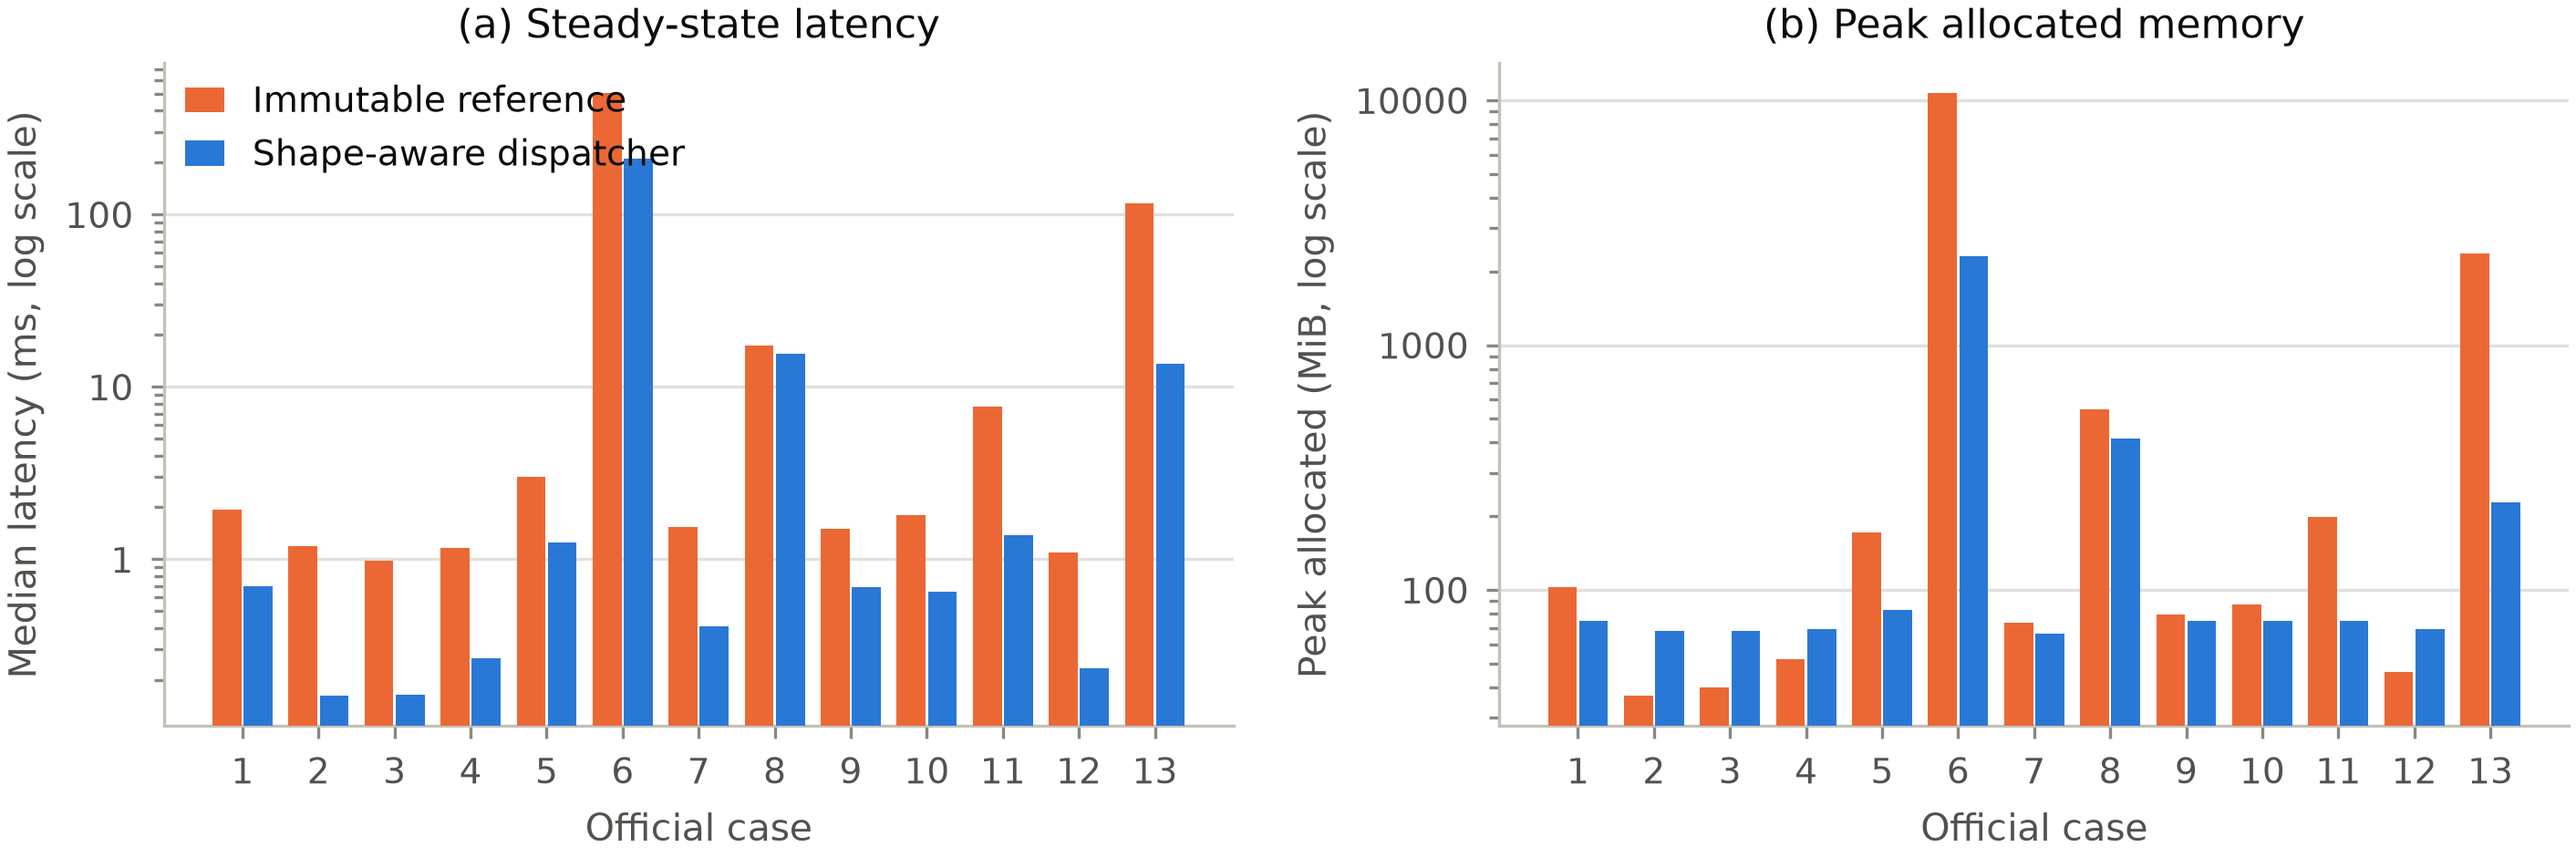
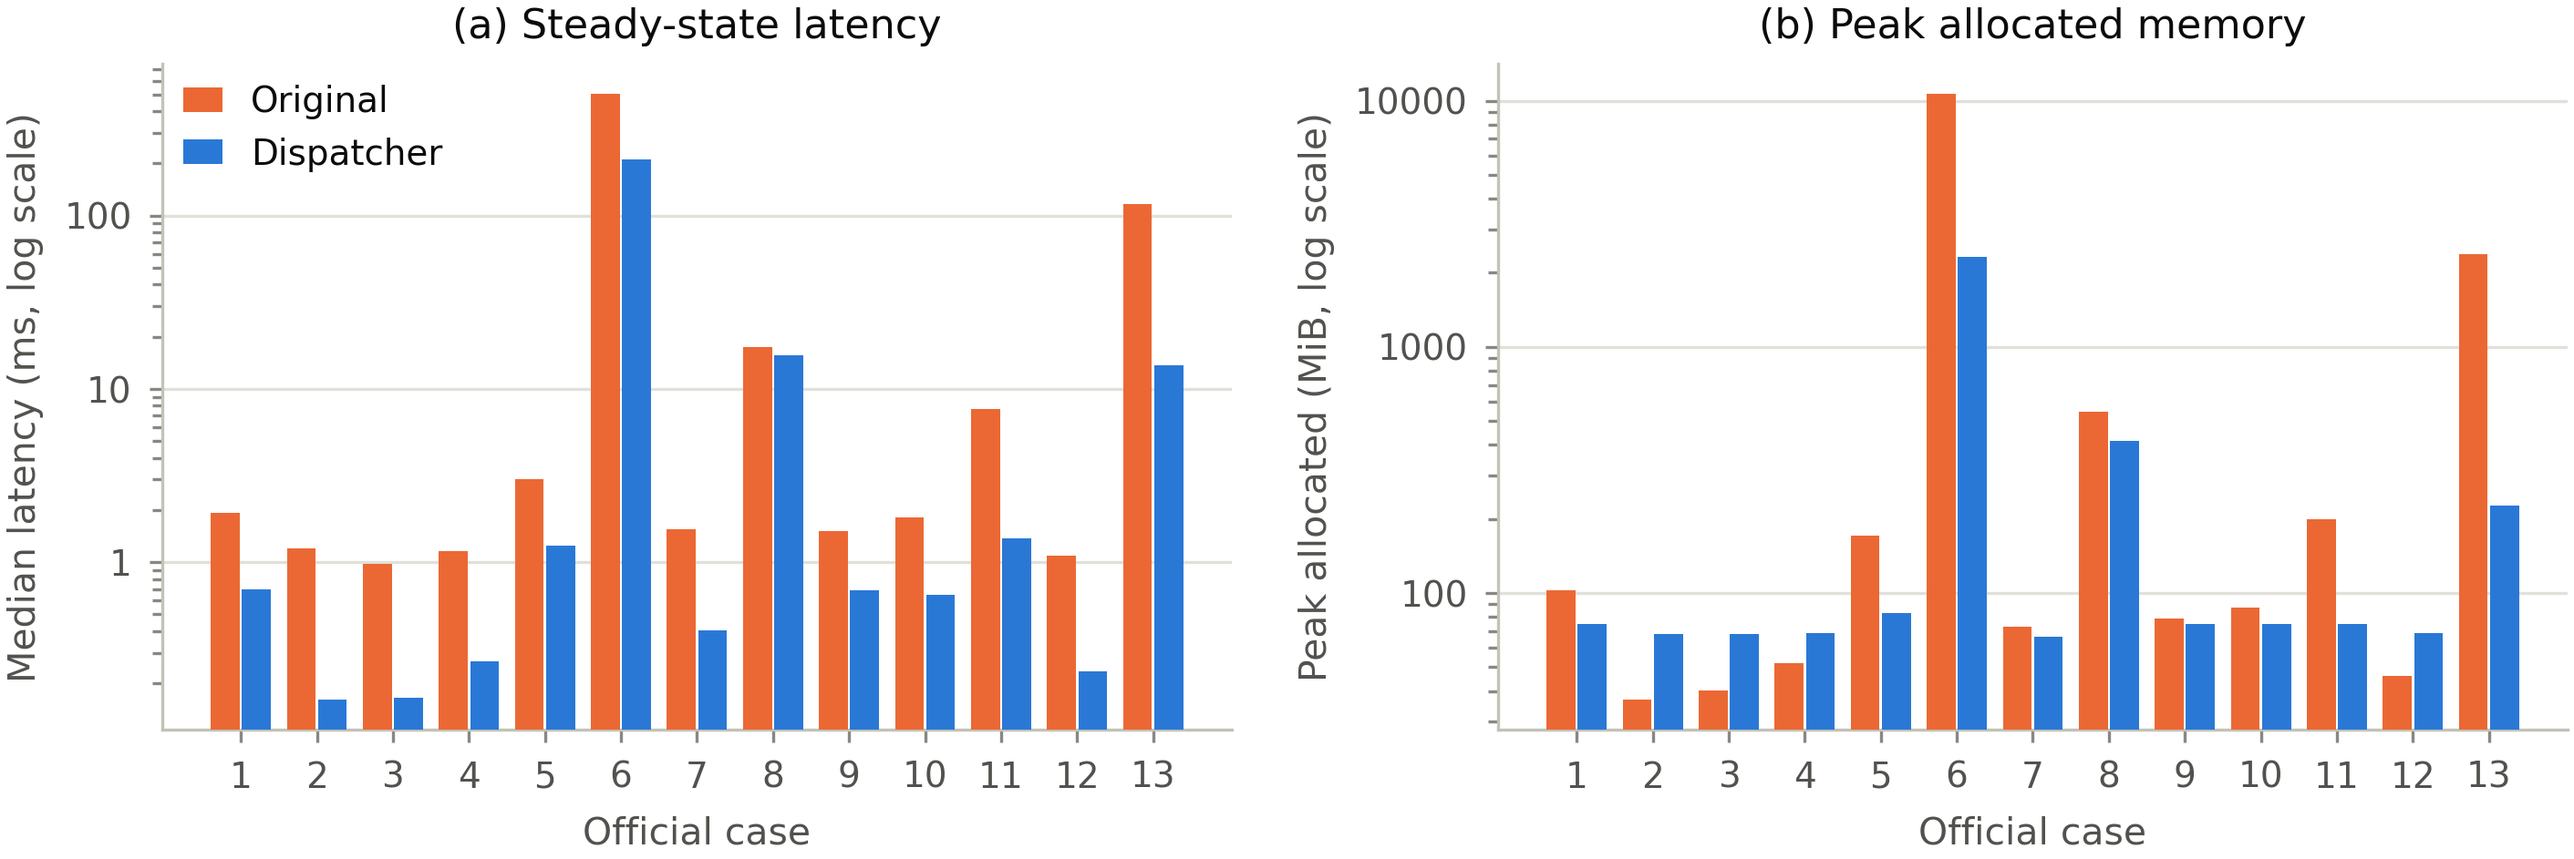
New figures

diff --git a/docs/make_figures.py b/docs/make_figures.py
@@ -166,10 +166,10 @@ def _grouped_log_panel(ax, rows, base_key, cand_key, ylabel) -> None:
     gap = 0.03  # the surface gap that separates adjacent fills
     ax.bar([p - width / 2 - gap / 2 for p in positions],
            [r[base_key] for r in rows], width, color=SERIES_2,
-           label="Immutable reference", zorder=3)
+           label="Original", zorder=3)
     ax.bar([p + width / 2 + gap / 2 for p in positions],
            [r[cand_key] for r in rows], width, color=SERIES_1,
-           label="Shape-aware dispatcher", zorder=3)
+           label="Dispatcher", zorder=3)
     ax.set_yscale("log")
     ax.set_xticks(positions)
     ax.set_xticklabels([str(r["case"]) for r in rows])
@@ -305,15 +305,12 @@ def fig_sigma_guard() -> None:
     """Failed elements against score spread, at N=8192 vs the dense reference.
 
     Sweep transcribed from the calibration table in
-    src/implementations/poly_guard.py, which records the numerics both before
-    and after the Stage 0 kernel rework. Zero failures are drawn at an axis
-    floor because the y axis is logarithmic.
+    src/implementations/poly_guard.py, for the shipped kernel. Zero failures
+    are drawn at an axis floor because the y axis is logarithmic.
     """
     sigma = [0.3339, 0.3681, 0.4040, 0.4188, 0.4416, 0.4649,
              0.4808, 0.5217, 0.5642, 0.6544, 0.7512]
-    after = [0, 0, 0, 0, 1, 0, 1, 19, 319, 9482, 56758]
-    before = {0.3339: 0, 0.4040: 0, 0.4808: 0, 0.5217: 21,
-              0.5642: 308, 0.6544: 9566, 0.7512: 56801}
+    failures = [0, 0, 0, 0, 1, 0, 1, 19, 319, 9482, 56758]
 
     floor = 0.35  # visual stand-in for "zero failures" on a log axis
     fig, ax = plt.subplots(figsize=(COL_W, 2.35))
@@ -321,13 +318,8 @@ def fig_sigma_guard() -> None:
     ax.axvline(0.40, color=SERIES_1, linewidth=1.1, zorder=4)
     ax.axvline(0.3336, color=INK_2, linewidth=0.9, zorder=4)
 
-    bx = sorted(before)
-    ax.plot(bx, [max(before[s], floor) for s in bx], color=SERIES_2,
-            marker="o", markersize=3.6, zorder=5, label="before Stage 0",
-            markeredgecolor=SURFACE, markeredgewidth=0.7)
-    ax.plot(sigma, [max(v, floor) for v in after], color=SERIES_1,
-            marker="s", markersize=3.6, zorder=6,
-            label="after Stage 0 (shipped)", markeredgecolor=SURFACE,
+    ax.plot(sigma, [max(v, floor) for v in failures], color=SERIES_1,
+            marker="s", markersize=3.6, zorder=6, markeredgecolor=SURFACE,
             markeredgewidth=0.7)
 
     ax.set_yscale("log")
@@ -346,7 +338,6 @@ def fig_sigma_guard() -> None:
             color=INK_2, va="bottom", ha="right")
     ax.text(0.40, 1.2, "validated ceiling 0.40", rotation=90, fontsize=6.2,
             color=SERIES_1, va="bottom", ha="right")
-    ax.legend(loc="lower right", handlelength=1.4, borderpad=0.15)
     despine(ax)
     fig.savefig(OUT / "sigma-guard-calibration.png")
     plt.close(fig)
